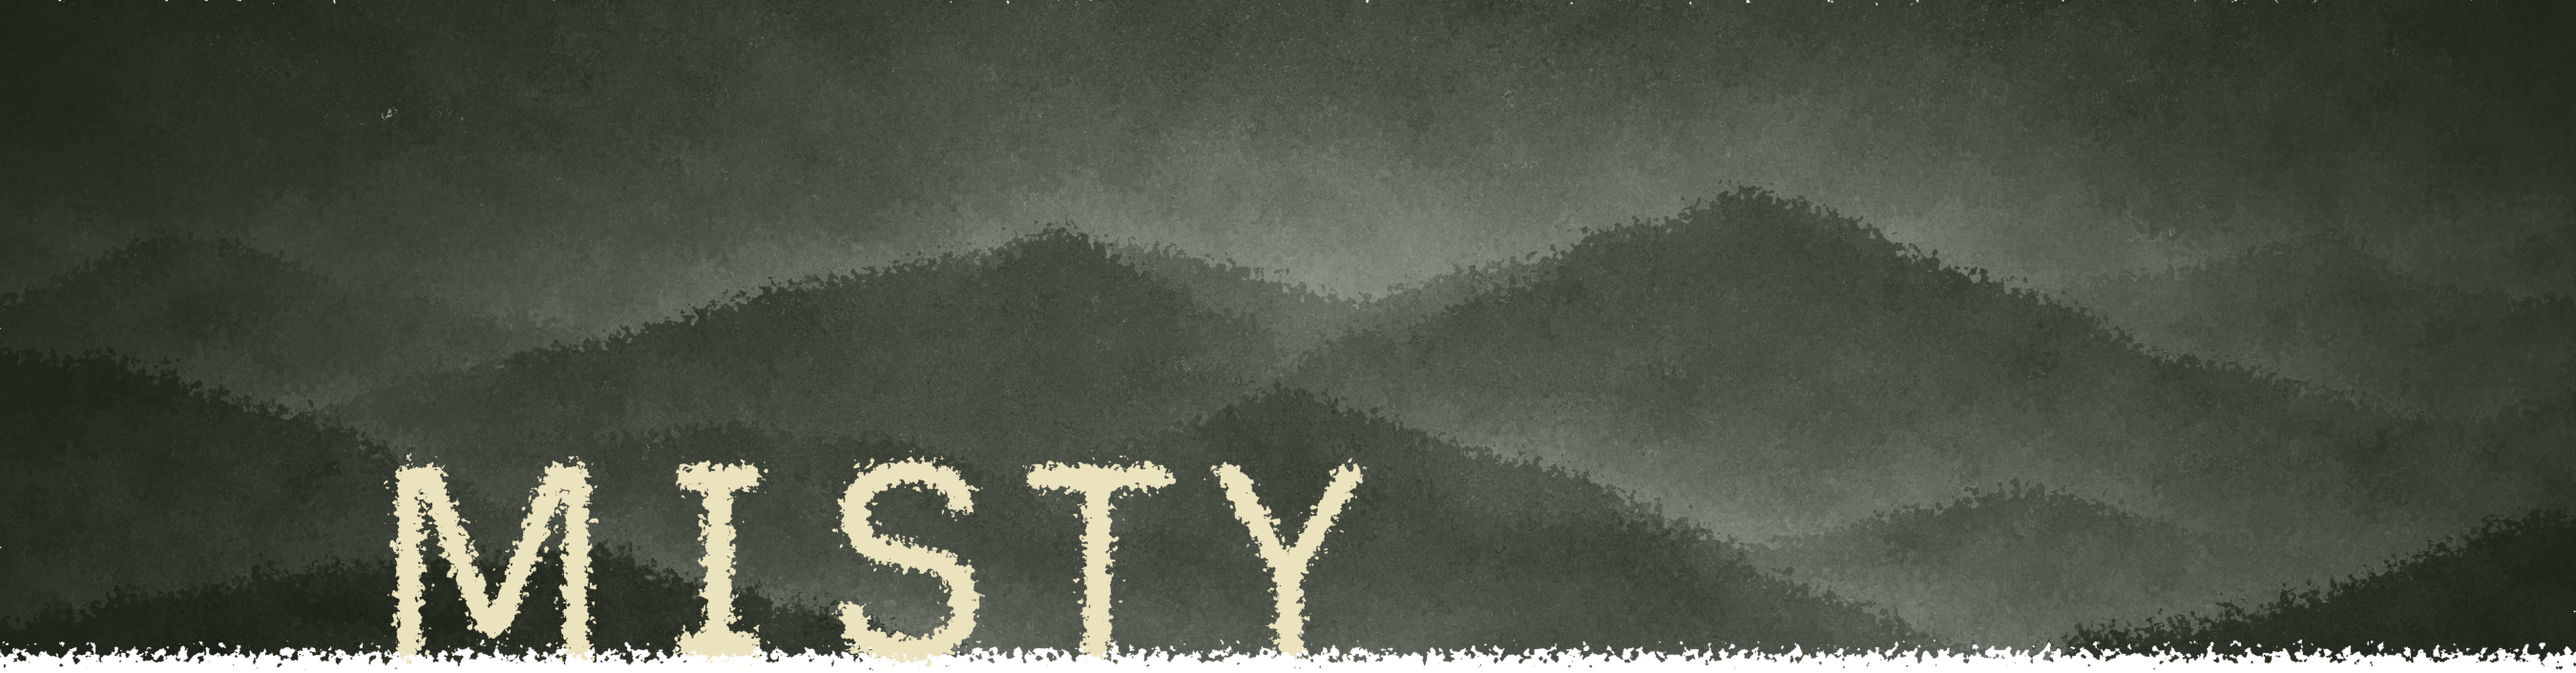
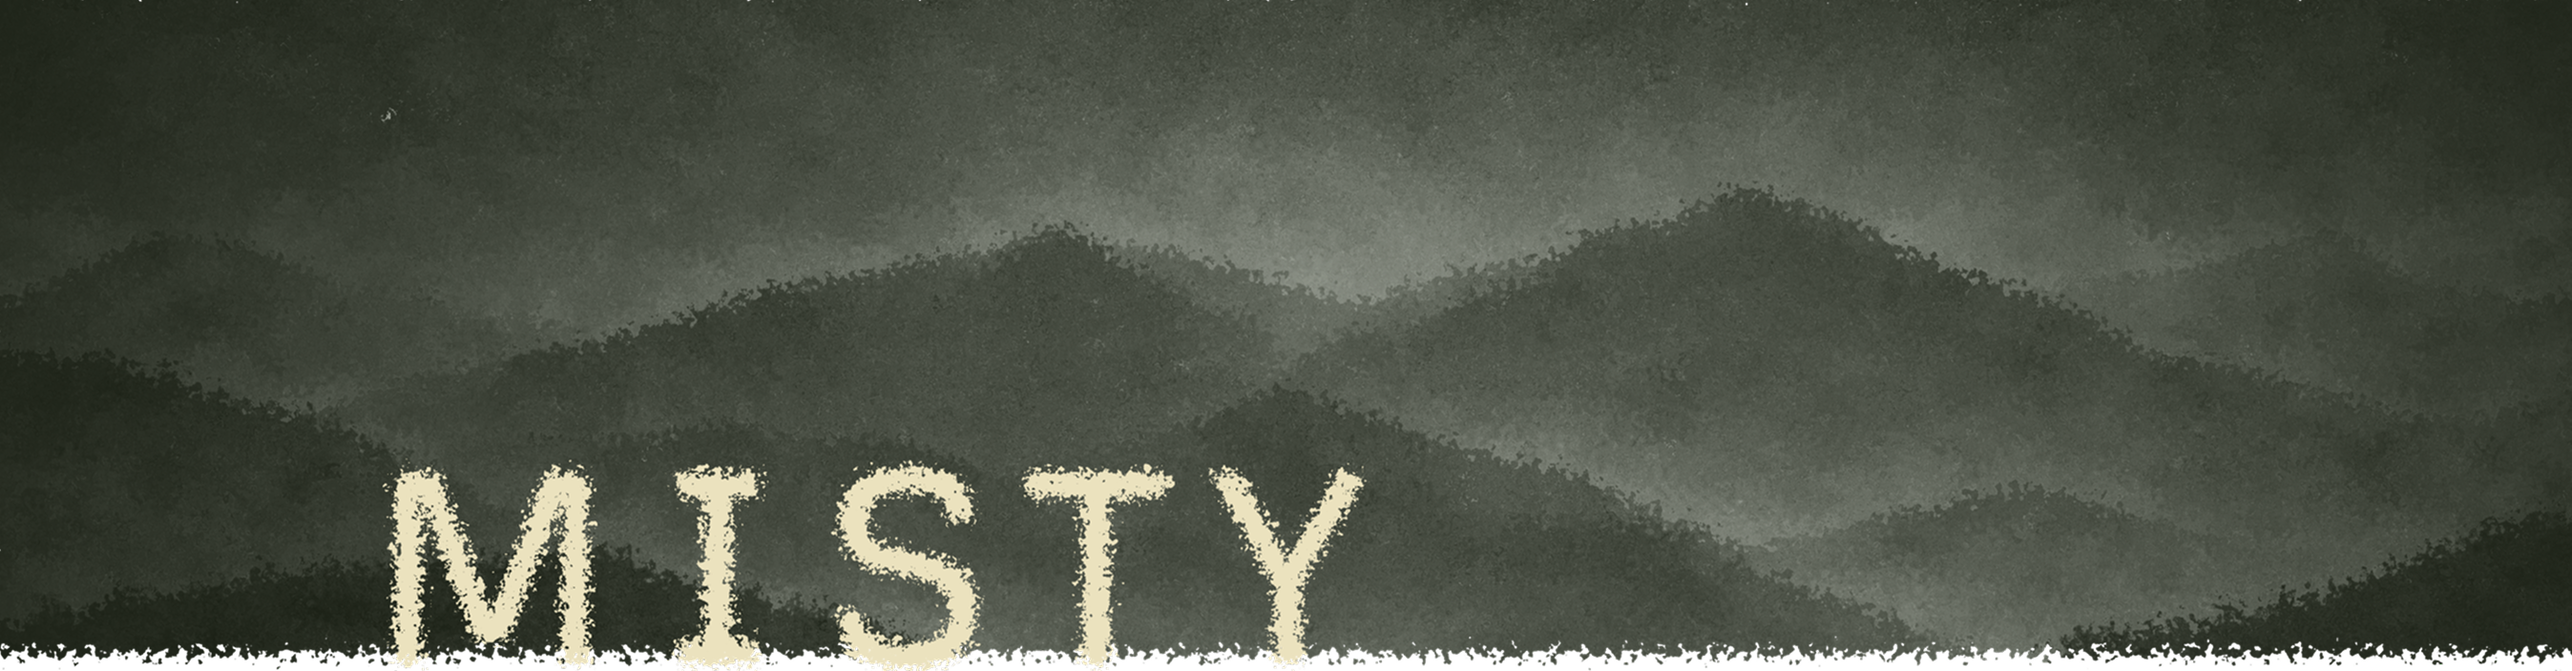
updated darkmode image

diff --git a/app/layout.tsx b/app/layout.tsx
@@ -8,7 +8,6 @@ import { SpeedInsights } from "@vercel/speed-insights/next";
 const APP_NAME = "Misty Match";
 const APP_SHORT_NAME = "Misty";
 const THEME_COLOR = "#5f7a6a";
-const BACKGROUND_COLOR = "#f5eee9";
 const MANIFEST_PATH = "/manifest.json";
 const APP_ICON_192 = "/web-app-manifest-192x192.png";
 
@@ -52,7 +51,7 @@ export default function RootLayout({
 }) {
   return (
     <html lang="en">
-      <body style={{ backgroundColor: BACKGROUND_COLOR }}>
+      <body>
         <SpeedInsights />
         <ThemeSync>{children}</ThemeSync>
         <ServiceWorkerRegistration />
